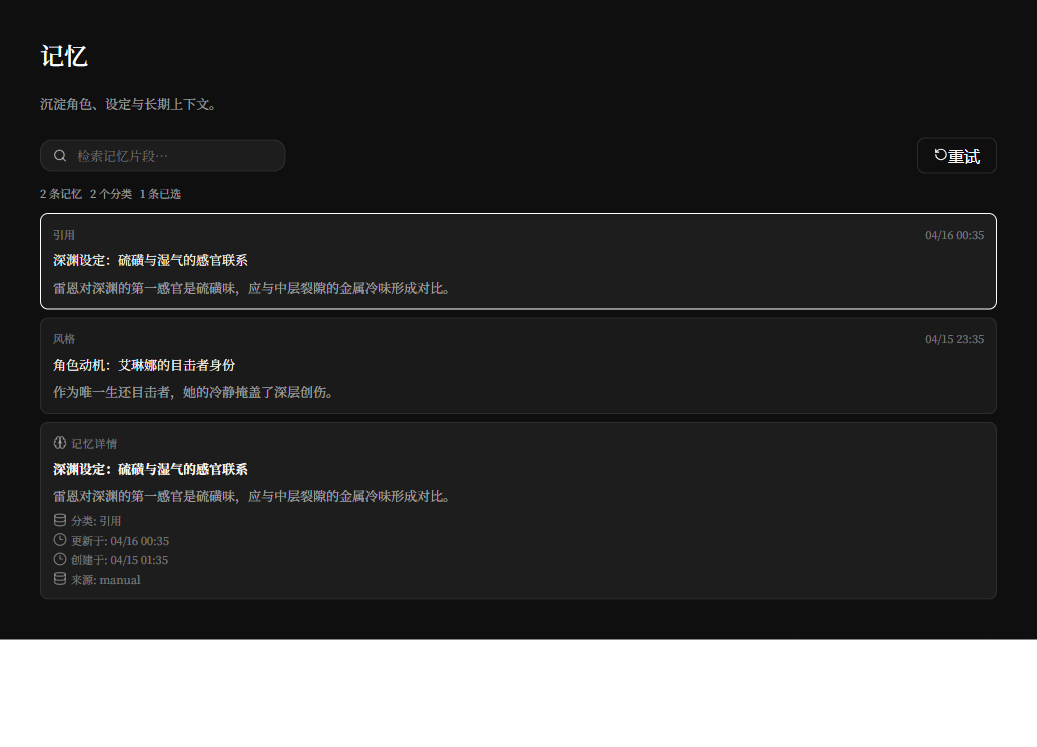
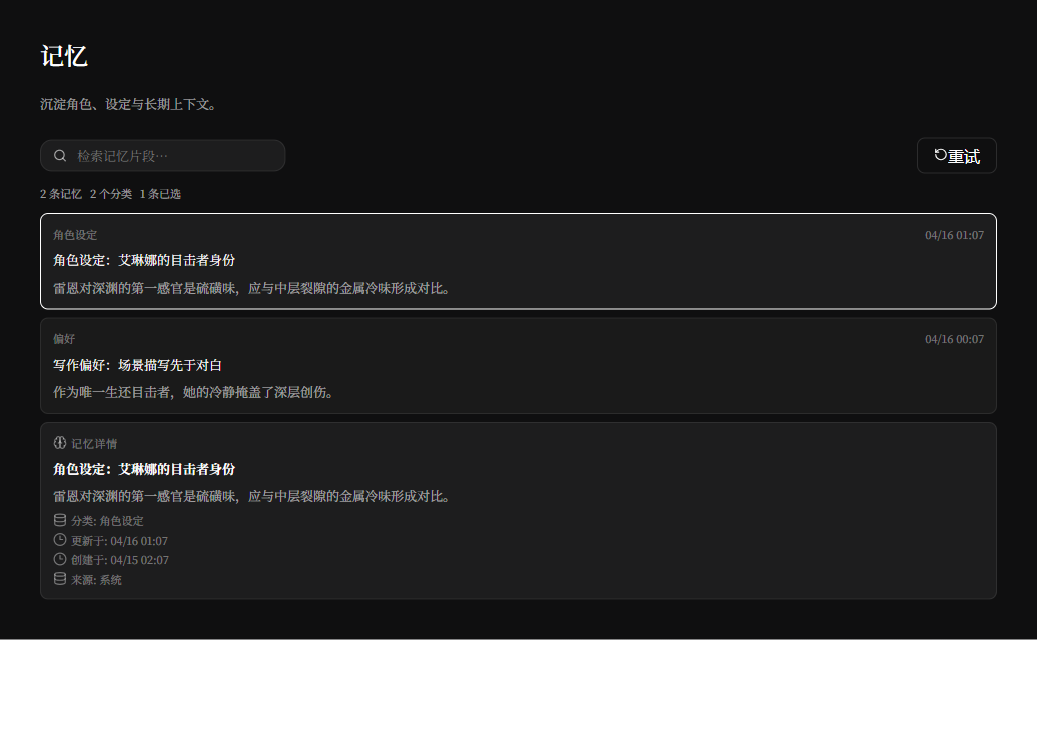
fix(renderer): align memory panel enum labels and a11y state (#181)

diff --git a/apps/desktop/renderer/src/features/workbench/components/MemoryPanel.tsx b/apps/desktop/renderer/src/features/workbench/components/MemoryPanel.tsx
@@ -31,22 +31,39 @@ function toTestIdSuffix(value: string): string {
 
 function categoryLabel(category: string, t: (key: string) => string): string {
   const normalized = category.trim().toLocaleLowerCase();
-  if (normalized === "style") {
+  if (normalized === "style-rule" || normalized === "style") {
     return t("sidebar.memory.category.style");
   }
   if (normalized === "preference") {
     return t("sidebar.memory.category.preference");
   }
+  if (normalized === "character-setting") {
+    return t("sidebar.memory.category.characterSetting");
+  }
+  if (normalized === "location-setting") {
+    return t("sidebar.memory.category.locationSetting");
+  }
   if (normalized === "reference") {
     return t("sidebar.memory.category.reference");
-  }
-  if (normalized === "note") {
-    return t("sidebar.memory.category.note");
   }
   if (normalized.length === 0) {
     return t("sidebar.memory.category.misc");
   }
   return category;
+}
+
+function sourceLabel(source: string, t: (key: string) => string): string {
+  const normalized = source.trim().toLocaleLowerCase();
+  if (normalized === "user") {
+    return t("sidebar.memory.source.user");
+  }
+  if (normalized === "system") {
+    return t("sidebar.memory.source.system");
+  }
+  if (normalized.length === 0) {
+    return t("sidebar.memory.source.unknown");
+  }
+  return source;
 }
 
 export function MemoryPanel(props: MemoryPanelProps) {
@@ -166,6 +183,7 @@ export function MemoryPanel(props: MemoryPanelProps) {
                 type="button"
                 className={selectedEntryId === entry.id ? "memory-entry-card is-active" : "memory-entry-card"}
                 onClick={() => setSelectedEntryId(entry.id)}
+                aria-pressed={selectedEntryId === entry.id}
                 data-testid={`memory-entry-${toTestIdSuffix(entry.id)}`}
               >
                 <div className="memory-entry-card__header">
@@ -215,7 +233,7 @@ export function MemoryPanel(props: MemoryPanelProps) {
                   <p>
                     <Database size={14} aria-hidden="true" />
                     <span>
-                      {t("sidebar.memory.detail.source")}: {selectedEntry.source}
+                      {t("sidebar.memory.detail.source")}: {sourceLabel(selectedEntry.source, t)}
                     </span>
                   </p>
                 </div>

diff --git a/apps/desktop/renderer/src/features/workbench/components/__tests__/MemoryPanel.test.tsx b/apps/desktop/renderer/src/features/workbench/components/__tests__/MemoryPanel.test.tsx
@@ -7,19 +7,19 @@ import { MemoryPanel } from "../MemoryPanel";
 const baseEntries = [
   {
     id: "mem-1",
-    key: "深渊设定：硫磺与湿气的感官联系",
+    key: "角色设定：艾琳娜的目击者身份",
     value: "雷恩对深渊的第一感官是硫磺味。",
-    category: "reference",
-    source: "manual",
+    category: "character-setting",
+    source: "system",
     createdAt: 1,
     updatedAt: 3,
   },
   {
     id: "mem-2",
-    key: "角色动机：艾琳娜的目击者身份",
+    key: "写作偏好：场景描写先于对白",
     value: "冷静外表下隐藏创伤。",
-    category: "style",
-    source: "session",
+    category: "preference",
+    source: "user",
     createdAt: 1,
     updatedAt: 2,
   },
@@ -46,13 +46,14 @@ describe("MemoryPanel", () => {
   it("ready 态渲染列表和详情", () => {
     renderPanel();
     expect(screen.getByTestId("memory-entry-list")).toBeInTheDocument();
-    expect(screen.getByTestId("memory-detail")).toHaveTextContent("深渊设定：硫磺与湿气的感官联系");
+    expect(screen.getByTestId("memory-detail")).toHaveTextContent("角色设定：艾琳娜的目击者身份");
   });
 
   it("点击词条后详情切换", () => {
     renderPanel();
     fireEvent.click(screen.getByTestId("memory-entry-mem-2"));
-    expect(screen.getByTestId("memory-detail")).toHaveTextContent("角色动机：艾琳娜的目击者身份");
+    expect(screen.getByTestId("memory-detail")).toHaveTextContent("写作偏好：场景描写先于对白");
+    expect(screen.getByTestId("memory-entry-mem-2")).toHaveAttribute("aria-pressed", "true");
   });
 
   it("搜索无命中时渲染 no-match", () => {

diff --git a/apps/desktop/renderer/src/features/workbench/components/MemoryPanel.stories.tsx b/apps/desktop/renderer/src/features/workbench/components/MemoryPanel.stories.tsx
@@ -5,19 +5,19 @@ import { MemoryPanel, type MemoryPanelEntry } from "./MemoryPanel";
 const entries: MemoryPanelEntry[] = [
   {
     id: "mem-1",
-    key: "深渊设定：硫磺与湿气的感官联系",
+    key: "角色设定：艾琳娜的目击者身份",
     value: "雷恩对深渊的第一感官是硫磺味，应与中层裂隙的金属冷味形成对比。",
-    category: "reference",
-    source: "manual",
+    category: "character-setting",
+    source: "system",
     createdAt: Date.now() - 86_400_000,
     updatedAt: Date.now() - 3_600_000,
   },
   {
     id: "mem-2",
-    key: "角色动机：艾琳娜的目击者身份",
+    key: "写作偏好：场景描写先于对白",
     value: "作为唯一生还目击者，她的冷静掩盖了深层创伤。",
-    category: "style",
-    source: "session",
+    category: "preference",
+    source: "user",
     createdAt: Date.now() - 172_800_000,
     updatedAt: Date.now() - 7_200_000,
   },

diff --git a/apps/desktop/renderer/src/i18n/config.ts b/apps/desktop/renderer/src/i18n/config.ts
@@ -101,9 +101,14 @@ const resources = {
       "sidebar.memory.noMatch.desc": "尝试更短关键词，或切换分类继续检索。",
       "sidebar.memory.category.style": "风格",
       "sidebar.memory.category.preference": "偏好",
+      "sidebar.memory.category.characterSetting": "角色设定",
+      "sidebar.memory.category.locationSetting": "地点设定",
       "sidebar.memory.category.reference": "引用",
       "sidebar.memory.category.note": "笔记",
       "sidebar.memory.category.misc": "其他",
+      "sidebar.memory.source.user": "用户",
+      "sidebar.memory.source.system": "系统",
+      "sidebar.memory.source.unknown": "未知",
       "sidebar.memory.detail.title": "记忆详情",
       "sidebar.memory.detail.category": "分类",
       "sidebar.memory.detail.source": "来源",

diff --git a/apps/desktop/renderer/src/features/workbench/__tests__/WorkbenchApp.test.tsx b/apps/desktop/renderer/src/features/workbench/__tests__/WorkbenchApp.test.tsx
@@ -4272,8 +4272,8 @@ describe("WorkbenchApp", () => {
             projectId: "project-1",
             key: "角色动机：艾琳娜的目击者身份",
             value: "冷静外表下隐藏创伤。",
-            category: "reference",
-            source: "manual",
+            category: "character-setting",
+            source: "system",
             createdAt: 1,
             updatedAt: 2,
           },
